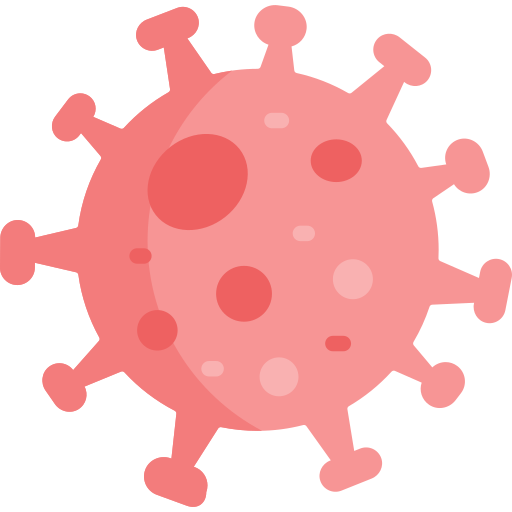
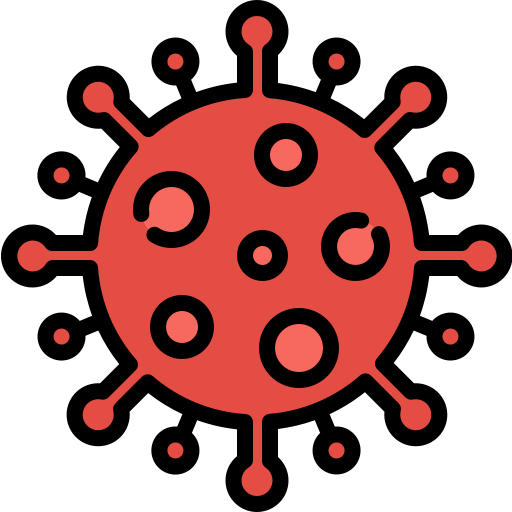
a

diff --git a/projects/infograph.html b/projects/infograph.html
@@ -116,9 +116,9 @@
         </div>
         <div class="square2" style="border: 5px solid rgb(0, 195, 255);top:-30px;left: 440px;">
             <div class="circle2">
-                <img src="/Projects/projects/imagens/admin.webp" id="im" alt="">
+                <img src="/Projects/projects/imagens/admin.png" id="im" alt="" style="width: 105px;height: 105px;top:20px;left:30px;">
             </div>
-            <p>Um médico analisa mais de 50 mil dados para encontrar informações importantes sobre determinado paciente, sendo que, dentre eles, somente 60 são realmente úteis, representando 0,1% do total. Como resultado, o atendimento se torna mais lento e menos eficaz.</p>
+            <p>Gestão financeira hospitalar é um conjunto de medidas e processos que serve para controlar os gastos e receitas de forma contínua. Permite, ainda, que o hospital planeje as ações futuras com segurança, partindo de dados consistentes para projetar cenários.</p>
         </div>
 
         <div id="circ">
@@ -126,14 +126,14 @@
         </div>
         <div class="square1" style="border: 5px solid rgb(57, 200, 95);top: -35px;left: -130px;">
             <div class="circle">
-                <img src="/Projects/projects/imagens/doctor.png" style="top: 15px; width: 110px;height: 110px;">
+                <img src="/Projects/projects/imagens/doctor.png" style="top: 10px; width: 115px;height: 115px;">
             </div>
             <p>Por meio de um estudo do Instituto de Pesquisa Econômica Aplicada(IPEA), os serviços de urgência e emergência recebeu mais de 31% de avaliações negativas devido ao escasso atendimento em prontos cirúrgicos e condução de processos médicos. </p>
 
         </div>
         <div class="square2" style="border: 5px solid rgb(247, 146, 44);top: -40px;left: 440px;">
             <div class="circle2">
-                <img src="/Projects/projects/imagens/covid.png" style="top: 20px; width: 110px;height: 110px;position: absolute;">
+                <img src="/Projects/projects/imagens/corona.png" style="top: 20px; width: 110px;height: 110px;position: absolute;">
             </div>
             <p>Mediante dados do projeto Monitora Covid-19 da Fiocruz, em um ano e meio, 1,7 milhões de internações não foram realizadas, afetando bruscamente os atendimentos do Sistema Único de Sáude(SUS). </p>
         </div>
